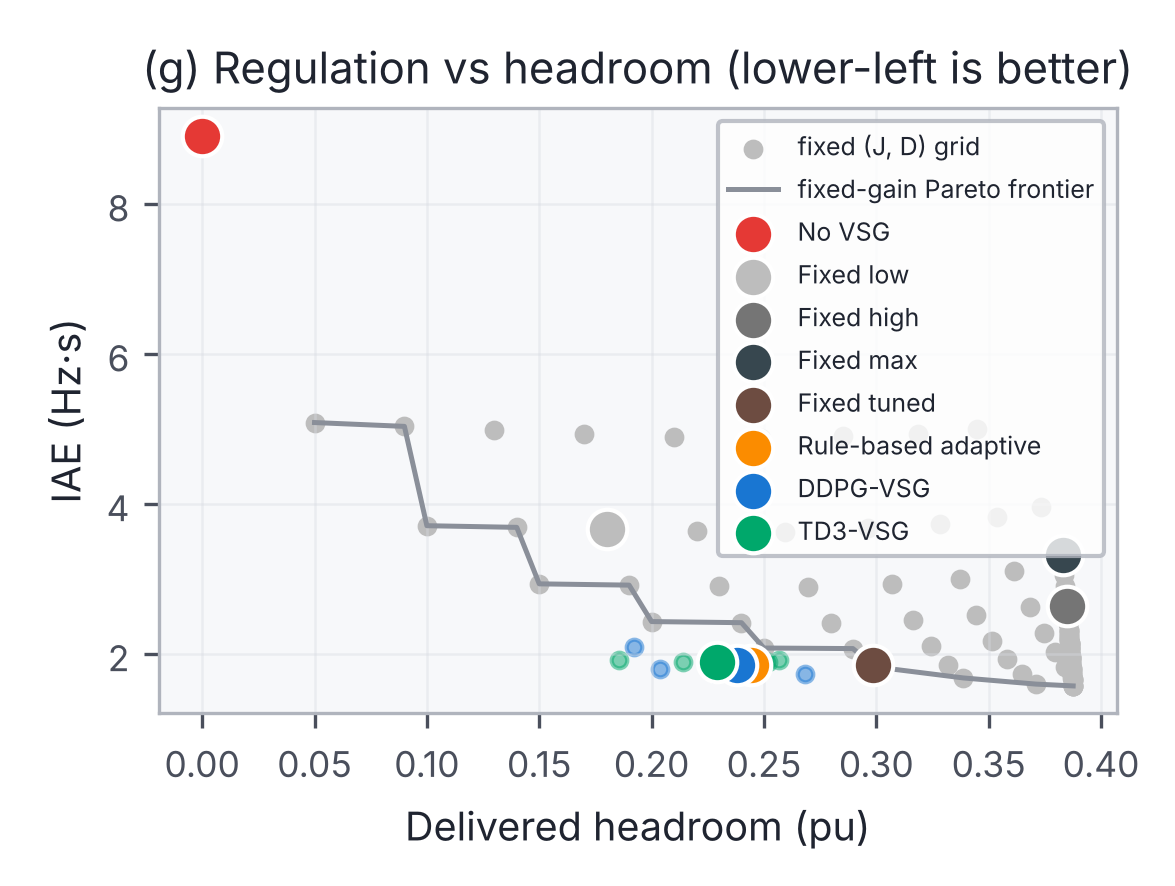
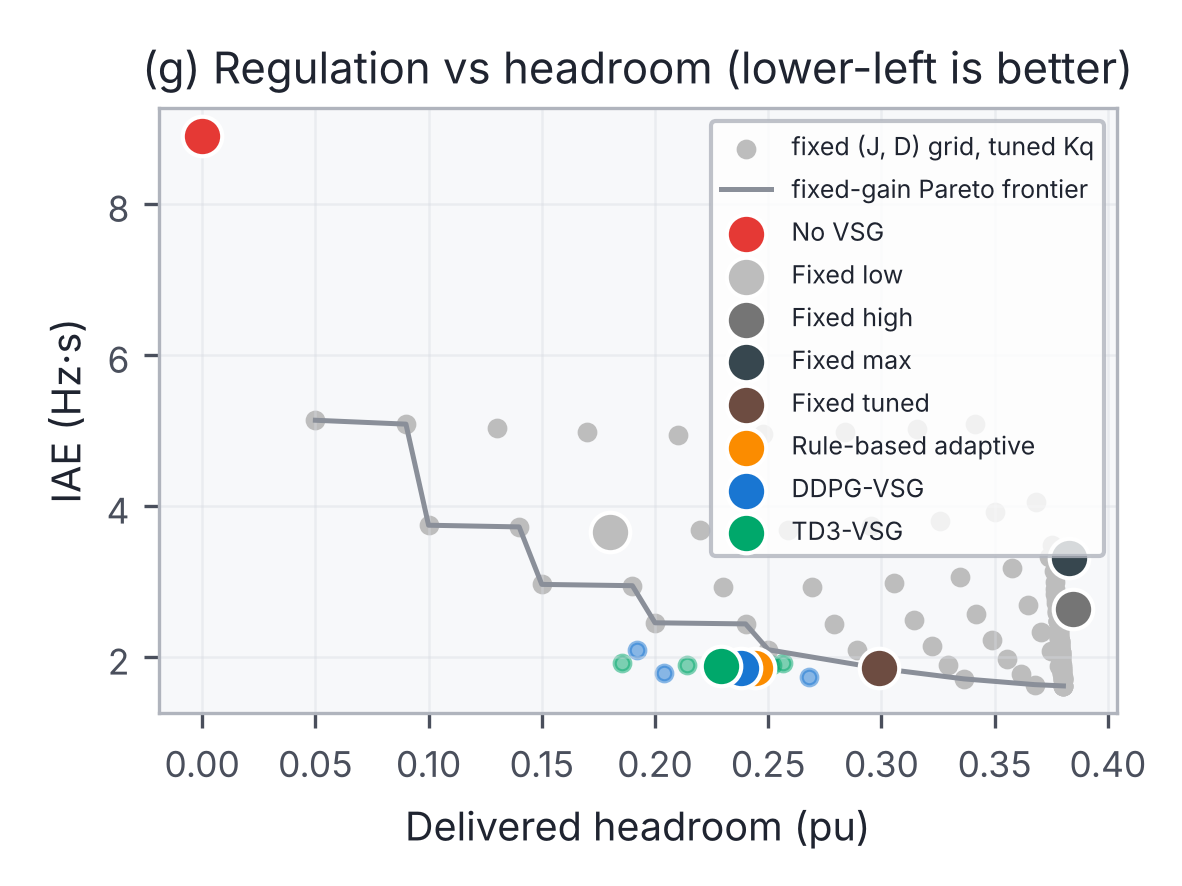
Evaluate the fixed-gain Pareto grid at the tuned reactive droop
The frontier used the default Kq = 8 while the tuned constant controller uses
Kq = 20; because the load is voltage-dependent, Kq also affects frequency, so
the tuned controller appeared below its own frontier. The grid now uses the
tuned Kq (it lies exactly on the frontier); figures regenerated.

Claude-Session: https://claude.ai/code/session_01MjUvkd8jsNY2EMTD9bu6LY

diff --git a/vsg_rl/cli.py b/vsg_rl/cli.py
@@ -136,7 +136,10 @@ def main(argv=None):
         log(f"[evaluate] held-out stress test: {C.N_STRESS} randomised episodes each ...")
         stress = E.evaluate_many(policies, E.stress_episodes(), workers=args.workers)
         log("[evaluate] fixed-gain grid on the test scenarios (Pareto frontier) ...")
-        grid_pol = {(f"J{J}_D{D}", None): FixedPolicy(J, D)
+        # same reactive droop as the tuned constant controller, so the
+        # frontier isolates the effect of (J, D) on frequency regulation
+        kq_grid = tuned["fixed_tuned"].get("Kq", C.KQ_VSG)
+        grid_pol = {(f"J{J}_D{D}", None): FixedPolicy(J, D, kq_grid)
                     for J in np.arange(0.0, 4.01, 0.5) for D in np.arange(5.0, 60.1, 5.0)}
         grid_res = E.evaluate_many(grid_pol, E.test_episodes(), workers=args.workers)
         grid = [E.episode_mean(r) for r in grid_res.values()]

diff --git a/vsg_rl/plots.py b/vsg_rl/plots.py
@@ -627,7 +627,7 @@ def figure_metrics(agg: dict, per_key: dict, grid: list, stress_rows: dict,
     ax = fig.add_subplot(gs[2, 0])
     if grid:
         g = np.array([(p["reserve_pu"], p["iae"]) for p in grid])
-        ax.scatter(g[:, 0], g[:, 1], s=14, color="#BDBDBD", label="fixed (J, D) grid")
+        ax.scatter(g[:, 0], g[:, 1], s=14, color="#BDBDBD", label="fixed (J, D) grid, tuned Kq")
         fr = _pareto([tuple(p) for p in g])
         ax.plot(fr[:, 0], fr[:, 1], "-", color=C.COLORS["dim"], lw=1.2,
                 label="fixed-gain Pareto frontier")

diff --git a/results/figures/panels/CAPTIONS.md b/results/figures/panels/CAPTIONS.md
@@ -161,3 +161,83 @@ One row per exported figure. Titles are taken from the panel itself; edit into f
 | `figure7_metrics_7_regulation_vs_headroom_lower_left_is_better.png` | (g) Regulation vs headroom (lower-left is better) |
 | `figure7_metrics_8_held_out_stress_test_iae_50_episodes.png` | (h) Held-out stress test: IAE (50 episodes) |
 | `figure7_metrics_9_vsg_power_injection_combined_stress.png` | (i) VSG power injection — combined stress |
+
+## figure2_generation_profiles
+
+| File | Panel title |
+|---|---|
+| `figure2_generation_profiles_1_seasonal_pv_generation.png` | Seasonal PV generation |
+| `figure2_generation_profiles_2_seasonal_wind_generation.png` | Seasonal wind generation |
+| `figure2_generation_profiles_3_summer_generation_stack.png` | Summer generation stack |
+| `figure2_generation_profiles_4_pv_output_vs_irradiance_noct_cell_heating.png` | PV output vs irradiance (NOCT cell heating) |
+| `figure2_generation_profiles_5_wind_power_curve_r_189_m.png` | Wind power curve (R = 18.9 m) |
+| `figure2_generation_profiles_6_power_coefficient_cpλ_β.png` | Power coefficient Cp(λ, β) |
+| `figure2_generation_profiles_7_weather_drivers_summer_day.png` | Weather drivers — summer day |
+| `figure2_generation_profiles_8_seasonal_average_generation.png` | Seasonal average generation |
+| `figure2_generation_profiles_9_rotor_dynamics_during_a_gust_collapse.png` | Rotor dynamics during a gust collapse |
+
+## figure3_weather_scenarios
+
+| File | Panel title |
+|---|---|
+| `figure3_weather_scenarios_1_solar_irradiance.png` | Solar irradiance |
+| `figure3_weather_scenarios_2_wind_speed.png` | Wind speed |
+| `figure3_weather_scenarios_3_total_renewable_generation.png` | Total renewable generation |
+| `figure3_weather_scenarios_4_pv_power.png` | PV power |
+| `figure3_weather_scenarios_5_wind_power.png` | Wind power |
+| `figure3_weather_scenarios_6_load_contingency_two_opposite_sign_events.png` | Load contingency — two opposite-sign events |
+| `figure3_weather_scenarios_7_frequency_response_with_no_vsg_the_case_for.png` | Frequency response with NO VSG — the case for adaptive inertia |
+| `figure3_weather_scenarios_8_severity_without_vsg.png` | Severity without VSG |
+
+## figure4_ddpg_training
+
+| File | Panel title |
+|---|---|
+| `figure4_ddpg_training_1_training_return.png` | (a) Training return |
+| `figure4_ddpg_training_2_validation_return_model_selection.png` | (b) Validation return (model selection) |
+| `figure4_ddpg_training_3_frequency_nadir_during_training.png` | (c) Frequency nadir during training |
+| `figure4_ddpg_training_4_learned_parameters.png` | (d) Learned parameters |
+| `figure4_ddpg_training_5_peak_rocof_during_training.png` | (e) Peak RoCoF during training |
+| `figure4_ddpg_training_6_critic_calibration_on_validation_states.png` | (f) Critic calibration on validation states |
+| `figure4_ddpg_training_7_frequency_response_combined_stress_test_scen.png` | (g) Frequency response — combined stress (test scenario) |
+| `figure4_ddpg_training_8_adaptive_j_and_d_combined_stress.png` | (h) Adaptive J and D — combined stress |
+
+## figure5_td3_training
+
+| File | Panel title |
+|---|---|
+| `figure5_td3_training_1_training_return.png` | (a) Training return |
+| `figure5_td3_training_2_validation_return_model_selection.png` | (b) Validation return (model selection) |
+| `figure5_td3_training_3_frequency_nadir_during_training.png` | (c) Frequency nadir during training |
+| `figure5_td3_training_4_learned_parameters.png` | (d) Learned parameters |
+| `figure5_td3_training_5_peak_rocof_during_training.png` | (e) Peak RoCoF during training |
+| `figure5_td3_training_6_critic_calibration_on_validation_states.png` | (f) Critic calibration on validation states |
+| `figure5_td3_training_7_frequency_response_combined_stress_test_scen.png` | (g) Frequency response — combined stress (test scenario) |
+| `figure5_td3_training_8_adaptive_j_and_d_combined_stress.png` | (h) Adaptive J and D — combined stress |
+
+## figure6_comparison
+
+| File | Panel title |
+|---|---|
+| `figure6_comparison_1_training_return.png` | (a) Training return |
+| `figure6_comparison_2_validation_return.png` | (b) Validation return |
+| `figure6_comparison_3_critic_bias_vs_monte_carlo_return.png` | (c) Critic bias vs Monte-Carlo return |
+| `figure6_comparison_4_frequency_combined_stress.png` | (d) Frequency — combined stress |
+| `figure6_comparison_5_rocof_500_ms_window.png` | (e) RoCoF, 500 ms window |
+| `figure6_comparison_6_peak_δf_by_scenario.png` | (f) Peak |Δf| by scenario |
+| `figure6_comparison_7_peak_rocof_by_scenario.png` | (g) Peak RoCoF by scenario |
+| `figure6_comparison_8_pcc_voltage_combined_stress.png` | (h) PCC voltage — combined stress |
+
+## figure7_metrics
+
+| File | Panel title |
+|---|---|
+| `figure7_metrics_1_recovery_settling_005_hz.png` | (a) Recovery settling (±0.05 Hz) |
+| `figure7_metrics_2_overshoot_after_contingency_1.png` | (b) Overshoot after contingency 1 |
+| `figure7_metrics_3_iae_δfdt.png` | (c) IAE ∫|Δf|dt |
+| `figure7_metrics_4_ise_δf²dt.png` | (d) ISE ∫Δf²dt |
+| `figure7_metrics_5_itae_tδfdt.png` | (e) ITAE ∫t|Δf|dt |
+| `figure7_metrics_6_delivered_headroom_commitment.png` | (f) Delivered headroom commitment |
+| `figure7_metrics_7_regulation_vs_headroom_lower_left_is_better.png` | (g) Regulation vs headroom (lower-left is better) |
+| `figure7_metrics_8_held_out_stress_test_iae_50_episodes.png` | (h) Held-out stress test: IAE (50 episodes) |
+| `figure7_metrics_9_vsg_power_injection_combined_stress.png` | (i) VSG power injection — combined stress |

diff --git a/results_measured/figures/panels/CAPTIONS.md b/results_measured/figures/panels/CAPTIONS.md
@@ -81,3 +81,83 @@ One row per exported figure. Titles are taken from the panel itself; edit into f
 | `figure7_metrics_7_regulation_vs_headroom_lower_left_is_better.png` | (g) Regulation vs headroom (lower-left is better) |
 | `figure7_metrics_8_held_out_stress_test_iae_50_episodes.png` | (h) Held-out stress test: IAE (50 episodes) |
 | `figure7_metrics_9_vsg_power_injection_combined_stress.png` | (i) VSG power injection — combined stress |
+
+## figure2_generation_profiles
+
+| File | Panel title |
+|---|---|
+| `figure2_generation_profiles_1_seasonal_pv_generation.png` | Seasonal PV generation |
+| `figure2_generation_profiles_2_seasonal_wind_generation.png` | Seasonal wind generation |
+| `figure2_generation_profiles_3_summer_generation_stack.png` | Summer generation stack |
+| `figure2_generation_profiles_4_pv_output_vs_irradiance_noct_cell_heating.png` | PV output vs irradiance (NOCT cell heating) |
+| `figure2_generation_profiles_5_wind_power_curve_r_189_m.png` | Wind power curve (R = 18.9 m) |
+| `figure2_generation_profiles_6_power_coefficient_cpλ_β.png` | Power coefficient Cp(λ, β) |
+| `figure2_generation_profiles_7_weather_drivers_summer_day.png` | Weather drivers — summer day |
+| `figure2_generation_profiles_8_seasonal_average_generation.png` | Seasonal average generation |
+| `figure2_generation_profiles_9_rotor_dynamics_during_a_gust_collapse.png` | Rotor dynamics during a gust collapse |
+
+## figure3_weather_scenarios
+
+| File | Panel title |
+|---|---|
+| `figure3_weather_scenarios_1_solar_irradiance.png` | Solar irradiance |
+| `figure3_weather_scenarios_2_wind_speed.png` | Wind speed |
+| `figure3_weather_scenarios_3_total_renewable_generation.png` | Total renewable generation |
+| `figure3_weather_scenarios_4_pv_power.png` | PV power |
+| `figure3_weather_scenarios_5_wind_power.png` | Wind power |
+| `figure3_weather_scenarios_6_load_contingency_two_opposite_sign_events.png` | Load contingency — two opposite-sign events |
+| `figure3_weather_scenarios_7_frequency_response_with_no_vsg_the_case_for.png` | Frequency response with NO VSG — the case for adaptive inertia |
+| `figure3_weather_scenarios_8_severity_without_vsg.png` | Severity without VSG |
+
+## figure4_ddpg_training
+
+| File | Panel title |
+|---|---|
+| `figure4_ddpg_training_1_training_return.png` | (a) Training return |
+| `figure4_ddpg_training_2_validation_return_model_selection.png` | (b) Validation return (model selection) |
+| `figure4_ddpg_training_3_frequency_nadir_during_training.png` | (c) Frequency nadir during training |
+| `figure4_ddpg_training_4_learned_parameters.png` | (d) Learned parameters |
+| `figure4_ddpg_training_5_peak_rocof_during_training.png` | (e) Peak RoCoF during training |
+| `figure4_ddpg_training_6_critic_calibration_on_validation_states.png` | (f) Critic calibration on validation states |
+| `figure4_ddpg_training_7_frequency_response_combined_stress_test_scen.png` | (g) Frequency response — combined stress (test scenario) |
+| `figure4_ddpg_training_8_adaptive_j_and_d_combined_stress.png` | (h) Adaptive J and D — combined stress |
+
+## figure5_td3_training
+
+| File | Panel title |
+|---|---|
+| `figure5_td3_training_1_training_return.png` | (a) Training return |
+| `figure5_td3_training_2_validation_return_model_selection.png` | (b) Validation return (model selection) |
+| `figure5_td3_training_3_frequency_nadir_during_training.png` | (c) Frequency nadir during training |
+| `figure5_td3_training_4_learned_parameters.png` | (d) Learned parameters |
+| `figure5_td3_training_5_peak_rocof_during_training.png` | (e) Peak RoCoF during training |
+| `figure5_td3_training_6_critic_calibration_on_validation_states.png` | (f) Critic calibration on validation states |
+| `figure5_td3_training_7_frequency_response_combined_stress_test_scen.png` | (g) Frequency response — combined stress (test scenario) |
+| `figure5_td3_training_8_adaptive_j_and_d_combined_stress.png` | (h) Adaptive J and D — combined stress |
+
+## figure6_comparison
+
+| File | Panel title |
+|---|---|
+| `figure6_comparison_1_training_return.png` | (a) Training return |
+| `figure6_comparison_2_validation_return.png` | (b) Validation return |
+| `figure6_comparison_3_critic_bias_vs_monte_carlo_return.png` | (c) Critic bias vs Monte-Carlo return |
+| `figure6_comparison_4_frequency_combined_stress.png` | (d) Frequency — combined stress |
+| `figure6_comparison_5_rocof_500_ms_window.png` | (e) RoCoF, 500 ms window |
+| `figure6_comparison_6_peak_δf_by_scenario.png` | (f) Peak |Δf| by scenario |
+| `figure6_comparison_7_peak_rocof_by_scenario.png` | (g) Peak RoCoF by scenario |
+| `figure6_comparison_8_pcc_voltage_combined_stress.png` | (h) PCC voltage — combined stress |
+
+## figure7_metrics
+
+| File | Panel title |
+|---|---|
+| `figure7_metrics_1_recovery_settling_005_hz.png` | (a) Recovery settling (±0.05 Hz) |
+| `figure7_metrics_2_overshoot_after_contingency_1.png` | (b) Overshoot after contingency 1 |
+| `figure7_metrics_3_iae_δfdt.png` | (c) IAE ∫|Δf|dt |
+| `figure7_metrics_4_ise_δf²dt.png` | (d) ISE ∫Δf²dt |
+| `figure7_metrics_5_itae_tδfdt.png` | (e) ITAE ∫t|Δf|dt |
+| `figure7_metrics_6_delivered_headroom_commitment.png` | (f) Delivered headroom commitment |
+| `figure7_metrics_7_regulation_vs_headroom_lower_left_is_better.png` | (g) Regulation vs headroom (lower-left is better) |
+| `figure7_metrics_8_held_out_stress_test_iae_50_episodes.png` | (h) Held-out stress test: IAE (50 episodes) |
+| `figure7_metrics_9_vsg_power_injection_combined_stress.png` | (i) VSG power injection — combined stress |
